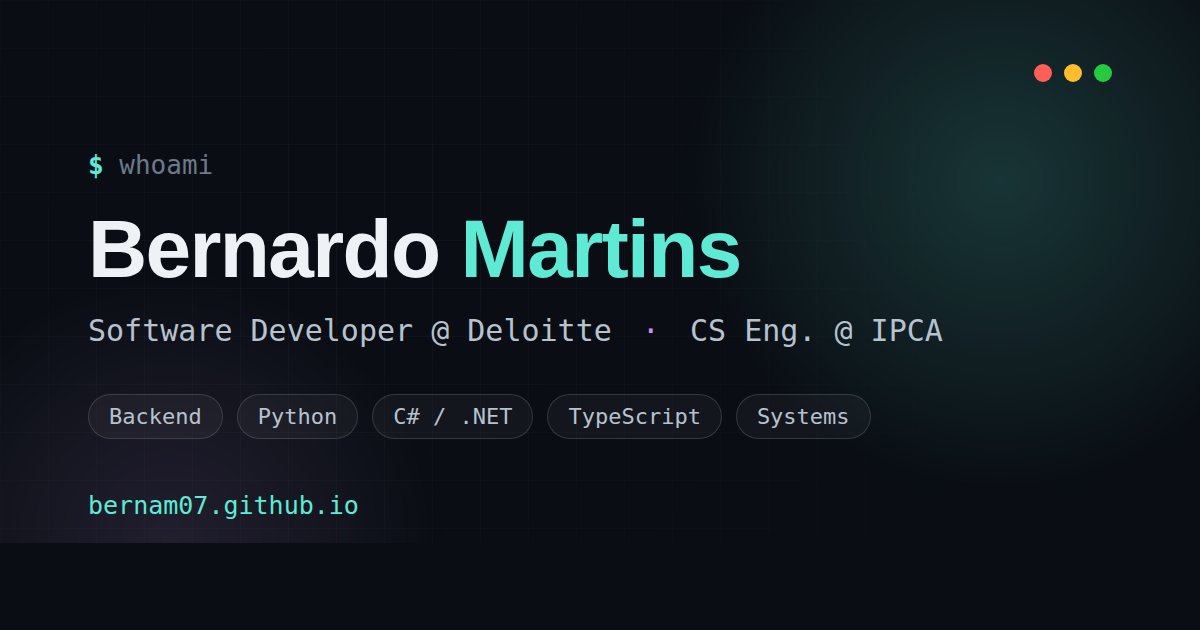
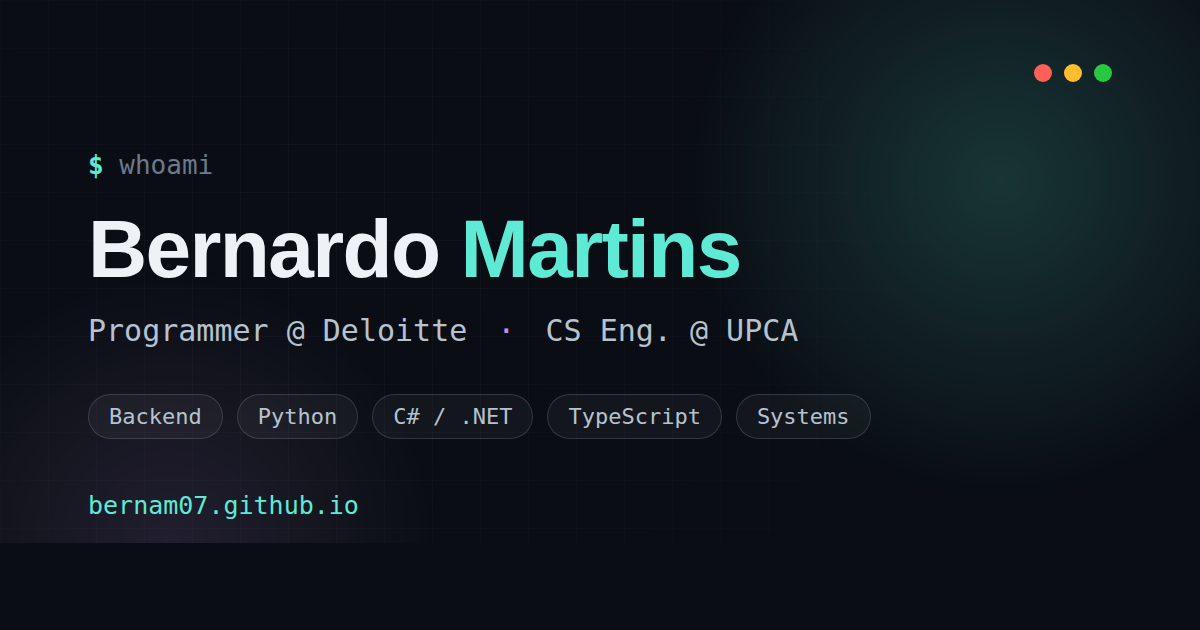
Update role to Programmer and IPCA rebrand to UPCA
- Reflect promotion from Developer to Programmer at Deloitte (Sept 2026)
  across the hero, code window, info cards, home timeline and roadmap;
  add a dedicated promotion milestone
- Rebrand IPCA to UPCA site-wide (config, home, roadmap, projects),
  noting "(formerly IPCA)" on the earliest academic milestone
- Regenerate the Open Graph image with the new title/institution

Claude-Session: https://claude.ai/code/session_013ru12mKwZFgSsgfhBab12a

Changed region(s): [[0.0617, 0.4825, 0.8017, 0.5429]]

diff --git a/index.html b/index.html
@@ -8,7 +8,7 @@ title: ""
     <img src="{{ '/assets/img/image.jpg' | relative_url }}" alt="Bernardo Martins" class="hero-avatar" width="60" height="60">
     <p class="hero-eyebrow">whoami</p>
     <h1>Hi, I'm <span class="accent-text">Bernardo Martins</span></h1>
-    <p class="hero-role">Software Developer @ Deloitte &middot; CS Engineering @ IPCA</p>
+    <p class="hero-role">Programmer @ Deloitte &middot; CS Engineering @ UPCA</p>
     <p class="hero-blurb">
       I'm a 22-year-old developer based in Portugal who enjoys building efficient
       systems and exploring financial markets. I balance professional software
@@ -30,9 +30,9 @@ title: ""
       <span class="code-window__title">whoami.ts</span>
     </div>
     <div class="code-window__body"><pre><code><span class="tok-kw">const</span> <span class="tok-var">bernardo</span> <span class="tok-punc">=</span> {
-  role<span class="tok-punc">:</span> <span class="tok-str">"Software Developer"</span>,
+  role<span class="tok-punc">:</span> <span class="tok-str">"Programmer"</span>,
   company<span class="tok-punc">:</span> <span class="tok-str">"Deloitte"</span>,
-  studying<span class="tok-punc">:</span> <span class="tok-str">"CS Engineering @ IPCA"</span>,
+  studying<span class="tok-punc">:</span> <span class="tok-str">"CS Engineering @ UPCA"</span>,
   basedIn<span class="tok-punc">:</span> <span class="tok-str">"Portugal"</span>,
   focus<span class="tok-punc">:</span> [<span class="tok-str">"backend"</span>, <span class="tok-str">"systems"</span>, <span class="tok-str">"markets"</span>],
   currentlyBuilding<span class="tok-punc">:</span> <span class="tok-str">"this site's live dashboard"</span>,
@@ -46,11 +46,11 @@ title: ""
   <div class="info-grid">
     <div class="info-card">
       <div class="info-card__label">Role</div>
-      <div class="info-card__value">Developer @ Deloitte</div>
+      <div class="info-card__value">Programmer @ Deloitte</div>
     </div>
     <div class="info-card">
       <div class="info-card__label">Education</div>
-      <div class="info-card__value">BSc Computer Systems Eng. @ IPCA</div>
+      <div class="info-card__value">BSc Computer Systems Eng. @ UPCA</div>
     </div>
     <div class="info-card">
       <div class="info-card__label">Based in</div>
@@ -71,6 +71,13 @@ title: ""
 
   <div class="timeline">
     <div class="timeline-item reveal">
+      <div class="timeline-marker current"></div>
+      <span class="timeline-date">September 2026</span>
+      <h3 class="timeline-title"><i class="fas fa-arrow-trend-up"></i> Promoted to Programmer</h3>
+      <p>Promoted from <strong>Developer</strong> to <strong>Programmer</strong> at Deloitte.</p>
+    </div>
+
+    <div class="timeline-item reveal">
       <div class="timeline-marker cert"></div>
       <span class="timeline-date">June 2025</span>
       <h3 class="timeline-title"><i class="fab fa-github"></i> GitHub Foundations</h3>
@@ -78,10 +85,10 @@ title: ""
     </div>
 
     <div class="timeline-item reveal">
-      <div class="timeline-marker current"></div>
+      <div class="timeline-marker"></div>
       <span class="timeline-date">September 2024</span>
       <h3 class="timeline-title"><i class="fas fa-university"></i> Enrolled in BSc Degree</h3>
-      <p>Admitted to the Bachelor's Degree in <strong>Computer Systems Engineering</strong> at IPCA.</p>
+      <p>Admitted to the Bachelor's Degree in <strong>Computer Systems Engineering</strong> at UPCA.</p>
     </div>
 
     <div class="timeline-item reveal">

diff --git a/_tabs/roadmap.md b/_tabs/roadmap.md
@@ -16,7 +16,14 @@ title: Roadmap
       <div class="timeline-marker"></div>
       <span class="timeline-date">July 2027 (Expected)</span>
       <h3 class="timeline-title"><i class="fas fa-graduation-cap"></i> BSc Graduation</h3>
-      <p>Expected completion of the Bachelor's Degree in <strong>Computer Systems Engineering</strong> at IPCA.</p>
+      <p>Expected completion of the Bachelor's Degree in <strong>Computer Systems Engineering</strong> at UPCA.</p>
+    </div>
+
+    <div class="timeline-item reveal">
+      <div class="timeline-marker work"></div>
+      <span class="timeline-date">September 2026</span>
+      <h3 class="timeline-title"><i class="fas fa-arrow-trend-up"></i> Promoted to Programmer</h3>
+      <p>Promoted from <strong>Developer</strong> to <strong>Programmer</strong> at Deloitte, taking on greater ownership and technical responsibility.</p>
     </div>
 
     <div class="timeline-item reveal">
@@ -31,7 +38,7 @@ title: Roadmap
       <div class="timeline-marker current"></div>
       <span class="timeline-date">September 2024</span>
       <h3 class="timeline-title"><i class="fas fa-university"></i> Enrolled in BSc Degree</h3>
-      <p>Admitted to the Bachelor's Degree in <strong>Computer Systems Engineering</strong> at IPCA.</p>
+      <p>Admitted to the Bachelor's Degree in <strong>Computer Systems Engineering</strong> at UPCA.</p>
     </div>
 
     <div class="timeline-item reveal">
@@ -74,7 +81,7 @@ title: Roadmap
       <div class="timeline-marker"></div>
       <span class="timeline-date">October 2022</span>
       <h3 class="timeline-title"><i class="fas fa-school"></i> Started Academic Journey</h3>
-      <p>Enrolled in the CTeSP program at <strong>IPCA</strong>.</p>
+      <p>Enrolled in the CTeSP program at <strong>UPCA</strong> (formerly IPCA).</p>
     </div>
 
   </div>

diff --git a/README.md b/README.md
@@ -4,7 +4,7 @@
 [![GitHub](https://img.shields.io/badge/GitHub-bernam07-181717?style=flat-square&logo=github)](https://github.com/bernam07)
 [![LinkedIn](https://img.shields.io/badge/LinkedIn-Bernardo%20Martins-0077B5?style=flat-square&logo=linkedin)](https://www.linkedin.com/in/bernardomfm/)
 
-> **A personal portfolio showcasing my journey as a Software Developer, featuring real-time financial tracking and professional milestones.**
+> **A personal portfolio showcasing my journey as a Programmer, featuring real-time financial tracking and professional milestones.**
 
 ---
 
@@ -19,7 +19,7 @@ You can also access it through here: **[bernardomartins.me](https://bernardomart
 This portfolio was built to go beyond a simple resume. It serves as a central hub for my professional identity, technical projects, and personal interests.
 
 ### Key Features:
-* **Professional Roadmap:** A visual timeline of my academic path (IPCA) and career at Deloitte.
+* **Professional Roadmap:** A visual timeline of my academic path (UPCA) and career at Deloitte.
 * **Real-time Dashboard:** Tracks live stock positions. Prices are refreshed by a scheduled GitHub Action (Yahoo Finance) and converted to EUR client-side (CoinGecko FX rates).
 * **Project Showcase:** A clean grid layout highlighting my work in C#, Python, and .NET.
 * **Setup Tour:** A detailed look at my hardware and development environment.

diff --git a/_tabs/projects.md b/_tabs/projects.md
@@ -35,7 +35,7 @@ title: Projects
         <i class="fas fa-shopping-cart card-icon"></i>
         <h3>Loja Social SAS</h3>
       </div>
-      <p>A web-based platform developed for IPCA's Social Services to manage their social store. It includes comprehensive inventory tracking, user request handling, and dedicated administrator dashboards.</p>
+      <p>A web-based platform developed for UPCA's Social Services to manage their social store. It includes comprehensive inventory tracking, user request handling, and dedicated administrator dashboards.</p>
       <div class="tech-stack">
         <span class="badge">C#</span>
         <span class="badge">ASP.NET Core</span>
